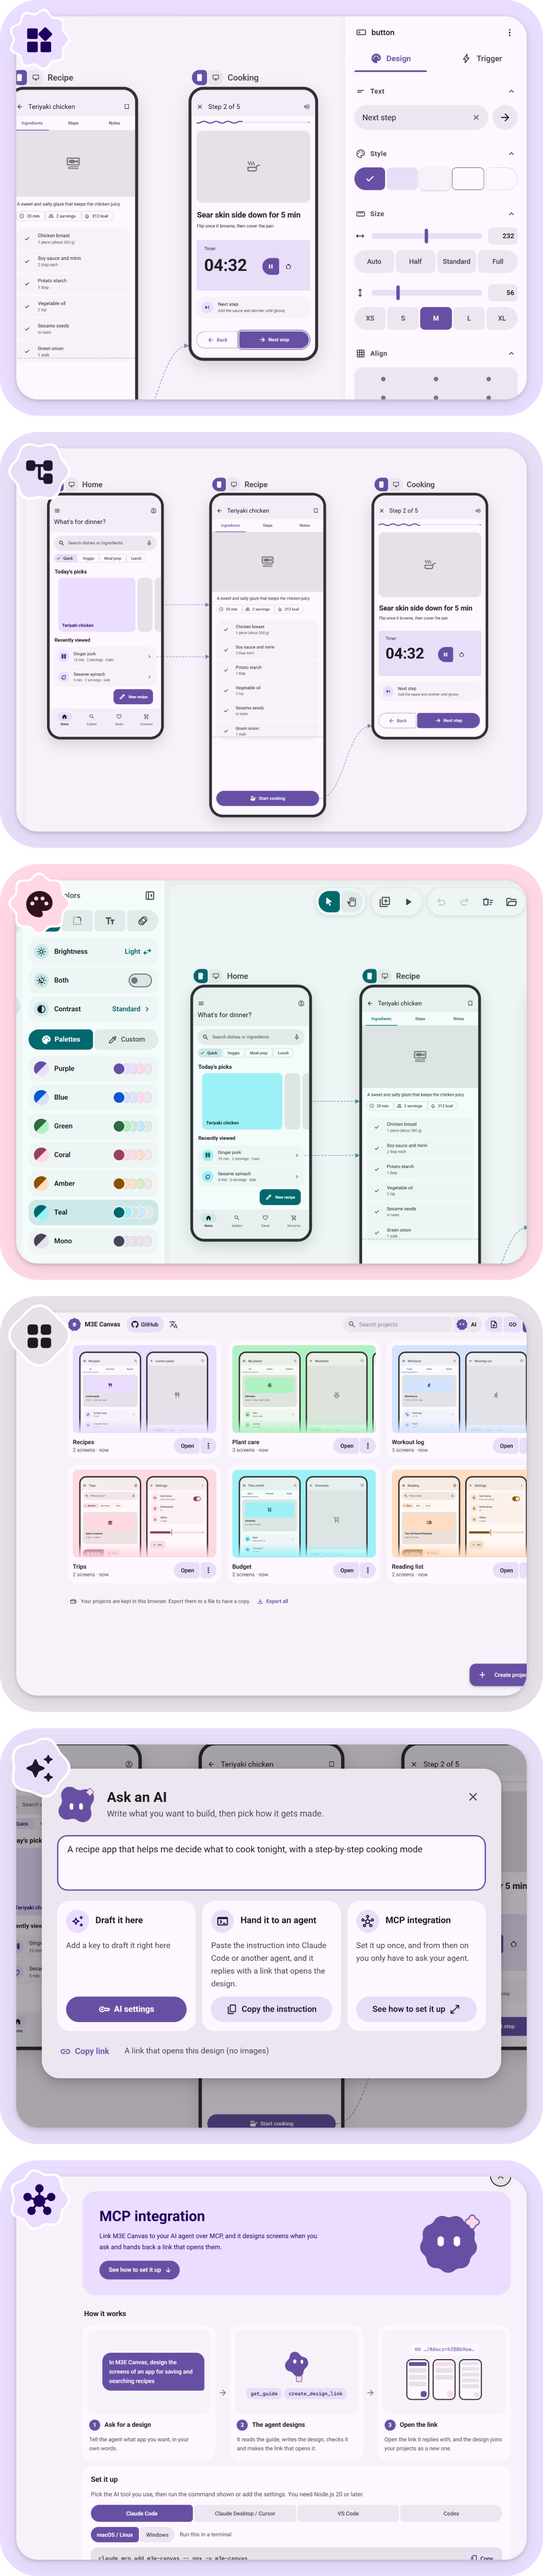
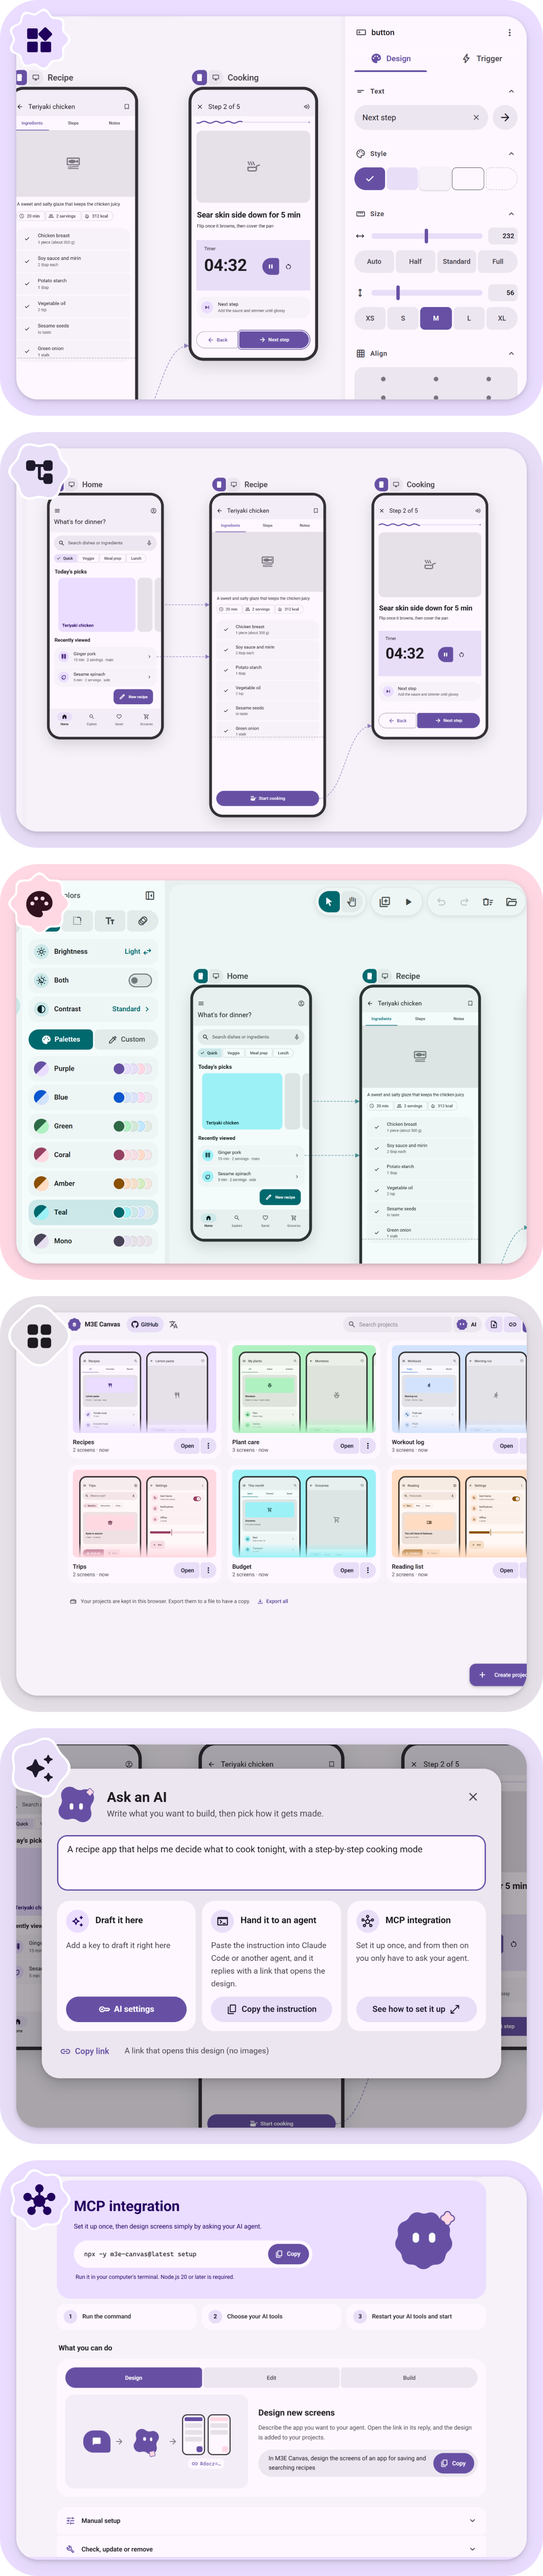
Give the READMEs the one command, and retake the MCP card

Changed region(s): [[0.1233, 0.8402, 0.6167, 0.9958], [0.7092, 0.8402, 0.8942, 0.9647]]

diff --git a/README.ko.md b/README.ko.md
@@ -63,7 +63,7 @@ M3E Canvas는 진짜 Material 3 Expressive 부품으로 앱 화면을 그리는 
 
 <img src="docs/readme/ui/feature-ai.png" width="24" height="24" align="absmiddle" alt="" /> **선택형 AI 도움** — 자신의 키로 디자인 초안이나 설명을 쓰게 하거나, 코딩 에이전트용 지시를 복사해 공유 링크로 답을 받을 수 있습니다. 키는 브라우저 밖으로 나가지 않습니다.
 
-<img src="docs/readme/ui/feature-mcp.png" width="24" height="24" align="absmiddle" alt="" /> **MCP 연동** — MCP 서버 [`m3e-canvas`](packages/mcp)를 설정하면 에이전트가 화면을 설계해 링크로 돌려주고, 완성한 디자인으로 앱까지 구현합니다. `claude mcp add m3e-canvas -- npx -y m3e-canvas`
+<img src="docs/readme/ui/feature-mcp.png" width="24" height="24" align="absmiddle" alt="" /> **MCP 연동** — MCP 서버 [`m3e-canvas`](packages/mcp)를 설정하면 에이전트가 화면을 설계해 링크로 돌려주고, 완성한 디자인으로 앱까지 구현합니다. `npx -y m3e-canvas@latest setup`
 
 <details>
 <summary><b>할 수 있는 모든 것</b></summary>
@@ -80,7 +80,7 @@ M3E Canvas는 진짜 Material 3 Expressive 부품으로 앱 화면을 그리는 
 - **AI 도우미(선택)** – OpenAI, Claude, Gemini, DeepSeek 키를 넣으면 한 문장으로 디자인 초안을 만들거나 부품의 동작과 화면 설명을 써 줍니다. 고쳐 쓴 내용은 모두 되돌릴 수 있습니다. 요청은 브라우저에서 제공업체로 직접 전송됩니다.
 - **공유 링크** – 디자인을 다른 사람의 캔버스에서 여는 링크를 복사할 수 있습니다. Claude Code, Codex 같은 에이전트용 지시도 복사할 수 있으며, 에이전트가 [agent.md](public/agent.md)를 읽고 스케치를 만들어 그런 링크로 답합니다.
 - **프로젝트** – 디자인을 원하는 만큼 보관할 수 있습니다. 각각 브라우저 안의 프로젝트가 되며, 목록 페이지에서 열기, 이름 바꾸기, 복제, 파일로 저장, 삭제를 할 수 있고 JSON 파일이나 링크에서 추가할 수도 있습니다. 링크를 열면 캔버스를 바꾸지 않고 별도의 프로젝트가 됩니다. "모두 내보내기"는 모든 프로젝트를 하나의 파일에 저장하며, 그 파일을 열면 어느 브라우저에서든 목록이 돌아옵니다.
-- **MCP 연동** – MCP 서버 [`m3e-canvas`](packages/mcp)를 Claude Code, Codex 같은 MCP 클라이언트에 설정하면 에이전트가 직접 화면을 설계하고 이를 여는 링크(큰 설계는 JSON 파일)를 돌려줍니다. `claude mcp add m3e-canvas -- npx -y m3e-canvas`(Windows에서는 `cmd /c npx …`). 완성한 설계의 링크를 주면 이 앱이 작성하는 프롬프트를 받아 앱을 구현합니다. 사용자의 컴퓨터 안에서만 동작하며 어디에도 전송하지 않습니다.
+- **MCP 연동** – MCP 서버 [`m3e-canvas`](packages/mcp)를 Claude Code, Codex 같은 MCP 클라이언트에 설정하면 에이전트가 직접 화면을 설계하고 이를 여는 링크(큰 설계는 JSON 파일)를 돌려줍니다. `npx -y m3e-canvas@latest setup`. 완성한 설계의 링크를 주면 이 앱이 작성하는 프롬프트를 받아 앱을 구현합니다. 사용자의 컴퓨터 안에서만 동작하며 어디에도 전송하지 않습니다.
 - **그 밖에** – 정렬 안내선과 4dp 그리드, 실행 취소/다시 실행, 키보드 단축키, 키보드로 쓸 수 있는 부품 패널, 즐겨찾기, 앱으로 설치, 브라우저 자동 저장.
 - **휴대전화에서는** – 화면 하나가 고정된 버튼 전용 편집기가 되며 하단 시트에서 편집합니다. 전체 기능은 데스크톱 브라우저용입니다.
 

diff --git a/README.zh.md b/README.zh.md
@@ -63,7 +63,7 @@ M3E Canvas 是一个免费、开源的应用界面草图工具，用的是真正
 
 <img src="docs/readme/ui/feature-ai.png" width="24" height="24" align="absmiddle" alt="" /> **可选的 AI 辅助**：使用自己的密钥让 AI 起草设计或撰写说明，或者复制给编程代理的指令，让它以分享链接回复。密钥不会离开你的浏览器。
 
-<img src="docs/readme/ui/feature-mcp.png" width="24" height="24" align="absmiddle" alt="" /> **MCP 集成**：接入 MCP 服务器 [`m3e-canvas`](packages/mcp) 后，代理会替你设计界面并以链接回复，还能根据你完成的设计把应用做出来：`claude mcp add m3e-canvas -- npx -y m3e-canvas`
+<img src="docs/readme/ui/feature-mcp.png" width="24" height="24" align="absmiddle" alt="" /> **MCP 集成**：接入 MCP 服务器 [`m3e-canvas`](packages/mcp) 后，代理会替你设计界面并以链接回复，还能根据你完成的设计把应用做出来：`npx -y m3e-canvas@latest setup`
 
 <details>
 <summary><b>全部功能</b></summary>
@@ -80,7 +80,7 @@ M3E Canvas 是一个免费、开源的应用界面草图工具，用的是真正
 - **AI 辅助（可选）** – 填入自己的 OpenAI、Claude、Gemini 或 DeepSeek 密钥，就能用一句话起草设计，或写出组件的行为说明和屏幕说明。每次改写都可以撤销。请求直接从浏览器发送给服务商。
 - **分享链接** – 复制一个能在他人画布上打开你设计的链接；也可以复制给 Claude Code、Codex 等代理的指令，代理会阅读 [agent.md](public/agent.md)、画出你描述的草图，并以这样的链接回复。
 - **项目** – 想保存多少个设计都可以。每个设计都是浏览器里的一个项目，在项目列表页可以打开、重命名、复制、保存为文件或删除，也可以从 JSON 文件或链接添加。打开的链接会成为一个新项目，而不是替换当前画布。“全部导出”会把所有项目写入一个文件，在任何浏览器里打开这个文件都能恢复列表。
-- **MCP 集成** – 把 MCP 服务器 [`m3e-canvas`](packages/mcp) 接入 Claude Code、Codex 等 MCP 客户端后，代理会自己设计界面，并返回打开设计的链接（设计很大时返回 JSON 文件）：`claude mcp add m3e-canvas -- npx -y m3e-canvas`（在 Windows 上使用 `cmd /c npx …`）。把完成的设计的链接交给它，它会取得本应用所写的提示词并据此构建应用。它只在你的电脑上运行，不会向任何地方发送数据。
+- **MCP 集成** – 把 MCP 服务器 [`m3e-canvas`](packages/mcp) 接入 Claude Code、Codex 等 MCP 客户端后，代理会自己设计界面，并返回打开设计的链接（设计很大时返回 JSON 文件）：`npx -y m3e-canvas@latest setup`。把完成的设计的链接交给它，它会取得本应用所写的提示词并据此构建应用。它只在你的电脑上运行，不会向任何地方发送数据。
 - **其他** – 对齐辅助线和 4dp 网格、撤销与重做、键盘快捷键、可用键盘操作的组件面板、收藏、安装为应用，以及自动保存在浏览器中。
 - **在手机上** – 一个固定屏幕、只有按钮的编辑器，在底部面板中编辑。完整功能请在电脑浏览器中使用。
 

diff --git a/README.md b/README.md
@@ -63,7 +63,7 @@ Or let your agent do it: with the [MCP server](packages/mcp) connected, ask for 
 
 <img src="docs/readme/ui/feature-ai.png" width="24" height="24" align="absmiddle" alt="" /> **Optional AI help** — Bring your own key to draft a design or write notes for you, or copy an instruction for a coding agent that replies with a share link. Keys never leave your browser.
 
-<img src="docs/readme/ui/feature-mcp.png" width="24" height="24" align="absmiddle" alt="" /> **MCP integration** — Connect the [`m3e-canvas`](packages/mcp) MCP server and your agent designs the screens for you, then builds the app from the screens you finished: `claude mcp add m3e-canvas -- npx -y m3e-canvas`
+<img src="docs/readme/ui/feature-mcp.png" width="24" height="24" align="absmiddle" alt="" /> **MCP integration** — Connect the [`m3e-canvas`](packages/mcp) MCP server and your agent designs the screens for you, then builds the app from the screens you finished: `npx -y m3e-canvas@latest setup`
 
 <details>
 <summary><b>Everything it can do</b></summary>
@@ -80,7 +80,7 @@ Or let your agent do it: with the [MCP server](packages/mcp) connected, ask for 
 - **AI helper (optional)** – bring your own key for OpenAI, Claude, Gemini or DeepSeek to draft a design from a sentence or write a part's behaviour note and a screen's description. Every rewrite can be undone. The request goes straight from your browser to the provider.
 - **Share links** – copy a link that opens your design on anyone's canvas, or an instruction for Claude Code, Codex or another agent: it reads [agent.md](public/agent.md), sketches what you described, and replies with such a link.
 - **Projects** – keep as many designs as you like. Each is a project in your browser, and a page lists them all: open, rename, duplicate, save as a file or delete one, and add one from a JSON file or a link. A link you open becomes a project of its own instead of replacing your canvas. **Export all** writes every project into one file, and opening that file brings the list back in any browser.
-- **MCP** – connect the [`m3e-canvas`](packages/mcp) MCP server to Claude Code, Codex or another MCP client, and your agent designs the screens itself and hands back the link that opens them, or a JSON file for a very large design: `claude mcp add m3e-canvas -- npx -y m3e-canvas` (on Windows, `cmd /c npx …`). Give it the link of a design you finished, and it gets the prompt this app writes and builds the app from it. It runs on your machine and sends nothing anywhere.
+- **MCP** – connect the [`m3e-canvas`](packages/mcp) MCP server to Claude Code, Codex or another MCP client, and your agent designs the screens itself and hands back the link that opens them, or a JSON file for a very large design: `npx -y m3e-canvas@latest setup`. Give it the link of a design you finished, and it gets the prompt this app writes and builds the app from it. It runs on your machine and sends nothing anywhere.
 - **Everything else** – alignment guides and a 4dp grid, undo and redo, keyboard shortcuts, a keyboard-usable parts panel, favorites, install as an app, and autosave in your browser.
 - **On a phone** – one fixed screen and a buttons-only editor with bottom sheets. The full editor is for desktop browsers.
 
